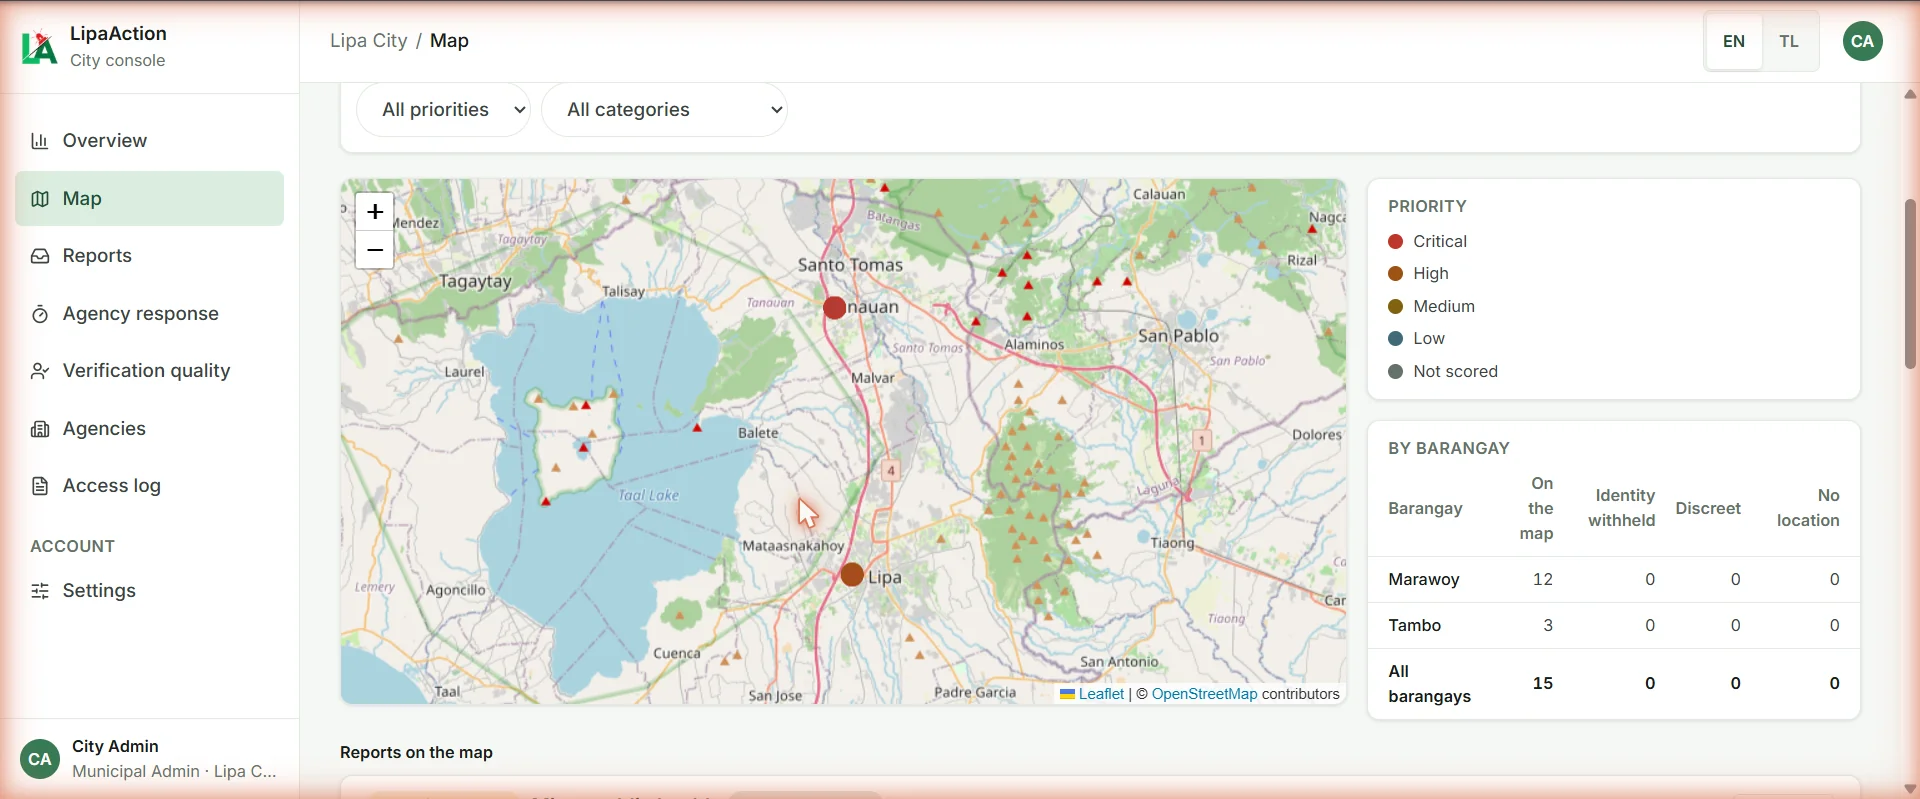
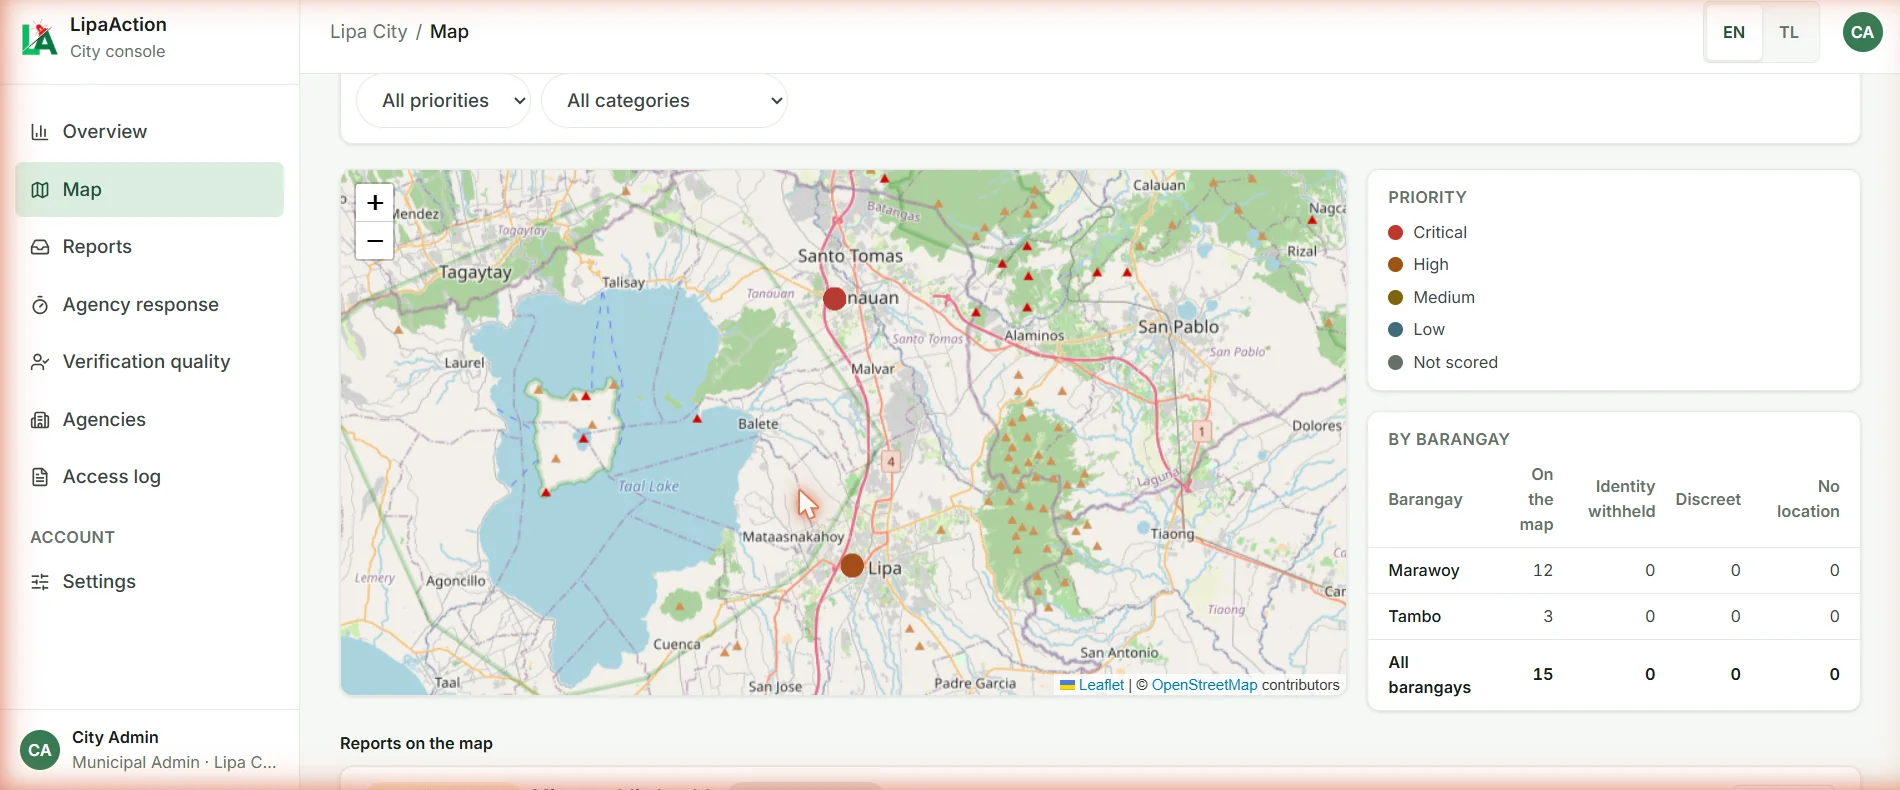
fix: crop the scrollbar and top line from LipaAction screenshots
- All seven shots re-cut from the originals at one size
- Chronicle captions say where messages are blurred for privacy

diff --git a/src/data/content.js b/src/data/content.js
@@ -198,7 +198,7 @@ export const projects = [
     // phoneScreenshots (optional): a row of phone-sized shots under the carousel.
     // shotSize / phoneShotSize: pixel size of those files, so the page keeps
     // their space before they load. image shares shotSize.
-    shotSize: { width: 1920, height: 799 },
+    shotSize: { width: 1900, height: 790 },
     image: "/projects/lipaaction/barangay-queue.webp",
     imageAlt:
       "Web console queue listing Critical Fire reports with priority scores and action buttons.",
@@ -359,13 +359,13 @@ export const projects = [
       {
         src: "/projects/chronicle/messages-light.webp",
         caption:
-          "Messages: conversation list and an open chat with a shared image.",
+          "Messages: conversation list and an open chat with a shared image; names and messages are blurred for privacy.",
         alt: "Two-pane messaging screen with chat bubbles and a sticker image.",
       },
       {
         src: "/projects/chronicle/chat-popups-light.webp",
         caption:
-          "Chats open as floating popups while you keep browsing the feed.",
+          "Chats open as floating popups while you keep browsing the feed; names and messages are blurred for privacy.",
         alt: "Feed page with two chat windows docked at the bottom right.",
       },
       {
@@ -388,7 +388,7 @@ export const projects = [
       },
       {
         src: "/projects/chronicle/chat-phone-light.webp",
-        caption: "A conversation on a phone.",
+        caption: "A conversation on a phone; names and messages are blurred for privacy.",
         alt: "Chat thread with blurred message bubbles, a sticker, and the message box at the bottom.",
       },
       {
